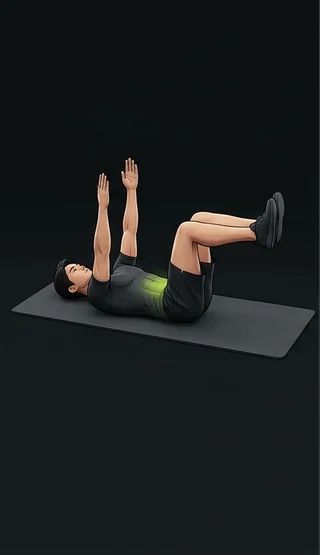
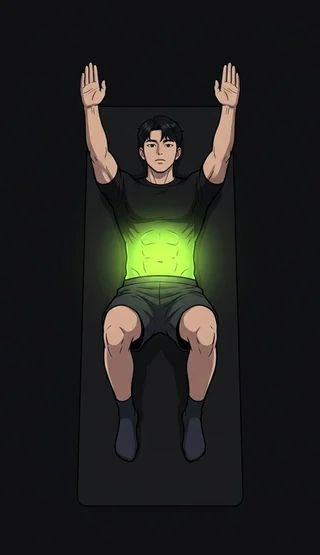
fix: replace home_deadbug guide with regenerated contralateral 3-cut illustration

Changed region(s): [[0.0312, 0.0919, 1.0, 0.827], [0.625, 0.0919, 0.75, 0.3369]]

diff --git a/sw.js b/sw.js
@@ -1,4 +1,4 @@
-const CACHE_NAME = "workout-companion-v11.2";
+const CACHE_NAME = "workout-companion-v11.3";
 const STATIC_ASSETS = [
   "./",
   "./index.html",
